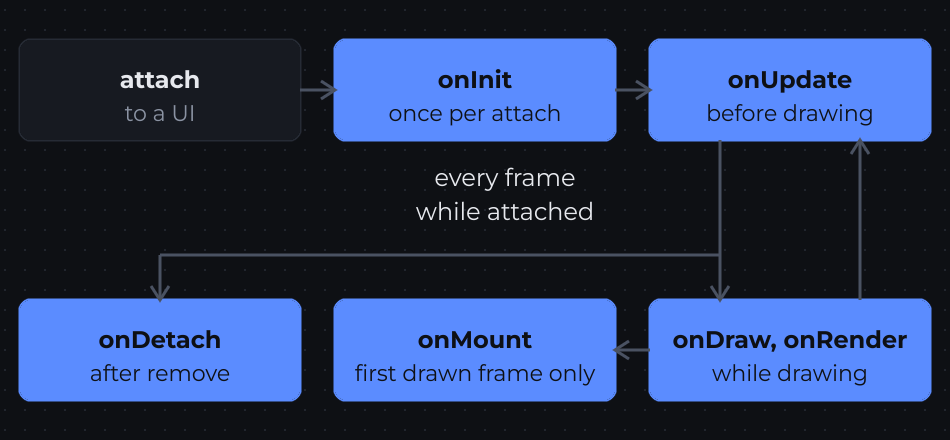
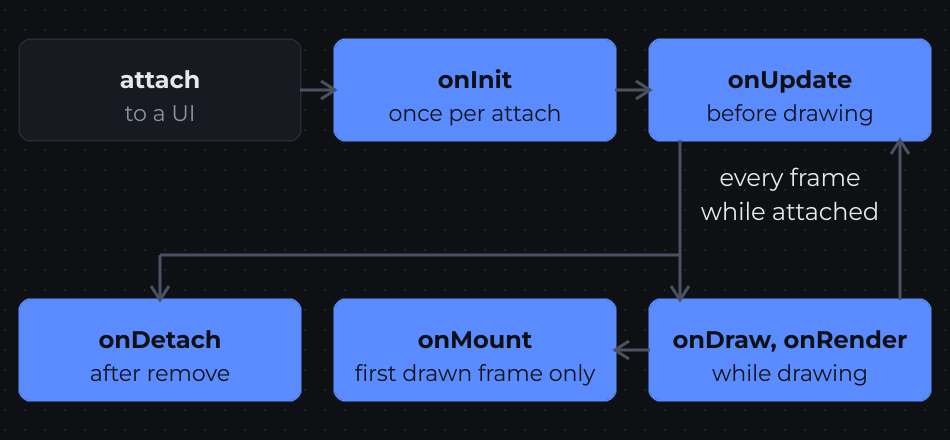
fix: lifecycle loop label beside the loop (🍱)

Changed region(s): [[0.7021, 0.325, 0.9768, 0.6795], [0.4274, 0.3841, 0.6411, 0.5023]]

diff --git a/documentation/examples/src/main/java/com/example/describing/lifecycle/LifecycleDiagramUI.java b/documentation/examples/src/main/java/com/example/describing/lifecycle/LifecycleDiagramUI.java
@@ -15,13 +15,13 @@ public class LifecycleDiagramUI extends DiagramUI {
 			super.subject(20, 300, 280, 100, "onDetach", "after remove").attach(backdrop);
 			super.arrow(backdrop, 300, 90, 335, 90);
 			super.arrow(backdrop, 615, 90, 650, 90);
-			super.arrow(backdrop, 720, 140, 720, 300);
-			super.arrow(backdrop, 860, 300, 860, 140);
+			super.arrow(backdrop, 680, 140, 680, 300);
+			super.arrow(backdrop, 900, 300, 900, 140);
 			super.arrow(backdrop, 650, 350, 615, 350);
-			super.line(backdrop, 720, 255, 160, 255);
+			super.line(backdrop, 680, 255, 160, 255);
 			super.arrow(backdrop, 160, 255, 160, 300);
-			super.label(335, 160, 340, 34, "every frame", 24F, DiagramUI.LABEL).attach(backdrop);
-			super.label(335, 194, 340, 34, "while attached", 24F, DiagramUI.LABEL).attach(backdrop);
+			super.label(690, 160, 200, 34, "every frame", 24F, DiagramUI.LABEL).attach(backdrop);
+			super.label(690, 194, 200, 34, "while attached", 24F, DiagramUI.LABEL).attach(backdrop);
 		}).attach(this);
 	}
 
